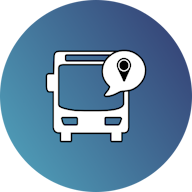
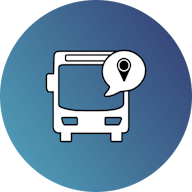
2026-06 Feature Update for worksbynrfz (100526.5)

Changed region(s): [[0.3438, 0.2812, 0.5625, 0.3438]]

diff --git a/fin-track/css/finTrack.css b/fin-track/css/finTrack.css
@@ -38,7 +38,7 @@ body.dark-mode #cv-ft {
 
 .ft-greeting-text {
     color: rgba(255, 255, 255, 0.9);
-    font-size: calc(1.325rem + .9vw);
+    font-size: calc(1.005rem + .9vw);
     line-height: 1.3;
     font-weight: 600;
     cursor: default;
